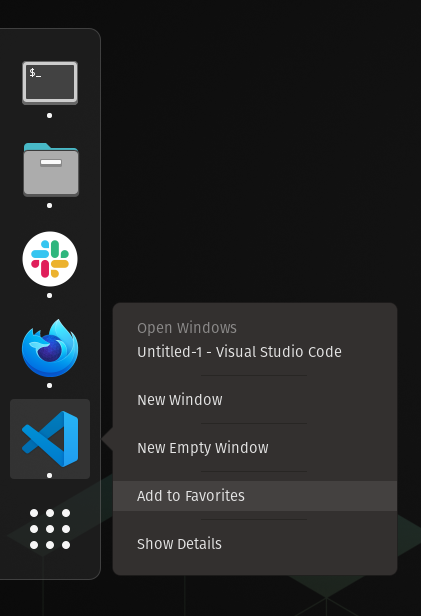
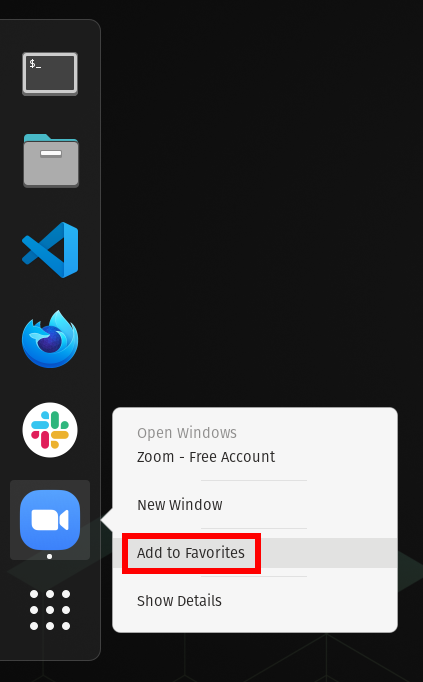
update dock partials & rebuild

diff --git a/ubuntu.md b/ubuntu.md
@@ -586,19 +586,19 @@ After the test are finished, you should have green "All clear" messages at least
 You can also sign in to Slack on your iPhone or Android device!
 
 
-## Pin apps to your taskbar
+## Pin apps to your dock
 
-You are going to use most of the apps you've just installed really often. So let's pin them to your taskbar so that they are just a click away!
+You are going to use most of the apps you've installed today really often. So let's pin them to your dock so that they are just one click away!
 
-To do so, launch the app, right-click on the icon to bring up the context menu and choose "Pin to taskbar".
+To pin an app to your dock, launch the app, right-click on the icon in the dock to bring up the context menu and choose "Add to Favorites".
 
-![How to pin VS Code to the dock in Ubuntu](images/ubuntu_dock.png)
+![How to pin an app to the dock in Ubuntu](images/ubuntu_dock.png)
 
-You should at least pin:
-- The terminal
-- The file explorer
-- The Internet browser
+You must pin:
+- Your terminal
+- Your file explorer
 - VS Code
+- Your Internet browser
 - Slack
 - Zoom
 

diff --git a/windows.md b/windows.md
@@ -1241,17 +1241,17 @@ You can also sign in to Slack on your iPhone or Android device!
 
 ## Pin apps to your taskbar
 
-You are going to use most of the apps you've just installed really often. So let's pin them to your taskbar so that they are just a click away!
+You are going to use most of the apps you've installed today really often. So let's pin them to your taskbar so that they are just one click away!
 
-To do so, launch the app, right-click on the icon to bring up the context menu and choose "Pin to taskbar".
+To pin an app to your taskbar, launch the app, right-click on the icon in the taskbar to bring up the context menu and choose "Pin to taskbar".
 
-![How to pin VS Code to the taskbar in Windows 10](images/windows_taskbar.png)
+![How to pin an app to the taskbar in Windows](images/windows_taskbar.png)
 
-You should at least pin:
-- The terminal
-- The file explorer
-- The Internet browser
+You must pin:
+- Your terminal
+- Your file explorer
 - VS Code
+- Your Internet browser
 - Slack
 - Zoom
 

diff --git a/macos.md b/macos.md
@@ -757,19 +757,19 @@ defaults write com.apple.screencapture location "${HOME}/Desktop"
 ```
 
 
-## Pin apps to your taskbar
+## Pin apps to your dock
 
-You are going to use most of the apps you've just installed really often. So let's pin them to your taskbar so that they are just a click away!
+You are going to use most of the apps you've installed today really often. So let's pin them to your dock so that they are just one click away!
 
-To do so, launch the app, right-click on the icon to bring up the context menu and choose "Pin to taskbar".
+To do so, launch the app, right-click on the icon to bring up the context menu and choose "Options" then "Keep in Dock.
 
-![How to pin VS Code to the taskbar in Windows 10](images/windows_taskbar.png)
+![How to pin an app to the dock in macOS](images/macos_dock.png)
 
-You should at least pin:
-- The terminal
-- The file explorer
-- The Internet browser
+You must pin:
+- Your terminal
+- Your file explorer
 - VS Code
+- Your Internet browser
 - Slack
 - Zoom
 

diff --git a/_partials/ubuntu_dock.md b/_partials/ubuntu_dock.md
@@ -1,15 +1,15 @@
-## Pin apps to your taskbar
+## Pin apps to your dock
 
-You are going to use most of the apps you've just installed really often. So let's pin them to your taskbar so that they are just a click away!
+You are going to use most of the apps you've installed today really often. So let's pin them to your dock so that they are just one click away!
 
-To do so, launch the app, right-click on the icon to bring up the context menu and choose "Pin to taskbar".
+To pin an app to your dock, launch the app, right-click on the icon in the dock to bring up the context menu and choose "Add to Favorites".
 
-![How to pin VS Code to the dock in Ubuntu](images/ubuntu_dock.png)
+![How to pin an app to the dock in Ubuntu](images/ubuntu_dock.png)
 
-You should at least pin:
-- The terminal
-- The file explorer
-- The Internet browser
+You must pin:
+- Your terminal
+- Your file explorer
 - VS Code
+- Your Internet browser
 - Slack
 - Zoom

diff --git a/_partials/windows_taskbar.md b/_partials/windows_taskbar.md
@@ -1,15 +1,15 @@
 ## Pin apps to your taskbar
 
-You are going to use most of the apps you've just installed really often. So let's pin them to your taskbar so that they are just a click away!
+You are going to use most of the apps you've installed today really often. So let's pin them to your taskbar so that they are just one click away!
 
-To do so, launch the app, right-click on the icon to bring up the context menu and choose "Pin to taskbar".
+To pin an app to your taskbar, launch the app, right-click on the icon in the taskbar to bring up the context menu and choose "Pin to taskbar".
 
-![How to pin VS Code to the taskbar in Windows 10](images/windows_taskbar.png)
+![How to pin an app to the taskbar in Windows](images/windows_taskbar.png)
 
-You should at least pin:
-- The terminal
-- The file explorer
-- The Internet browser
+You must pin:
+- Your terminal
+- Your file explorer
 - VS Code
+- Your Internet browser
 - Slack
 - Zoom

diff --git a/_partials/macos_dock.md b/_partials/macos_dock.md
@@ -1,15 +1,15 @@
-## Pin apps to your taskbar
+## Pin apps to your dock
 
-You are going to use most of the apps you've just installed really often. So let's pin them to your taskbar so that they are just a click away!
+You are going to use most of the apps you've installed today really often. So let's pin them to your dock so that they are just one click away!
 
-To do so, launch the app, right-click on the icon to bring up the context menu and choose "Pin to taskbar".
+To do so, launch the app, right-click on the icon to bring up the context menu and choose "Options" then "Keep in Dock.
 
-![How to pin VS Code to the taskbar in Windows 10](images/windows_taskbar.png)
+![How to pin an app to the dock in macOS](images/macos_dock.png)
 
-You should at least pin:
-- The terminal
-- The file explorer
-- The Internet browser
+You must pin:
+- Your terminal
+- Your file explorer
 - VS Code
+- Your Internet browser
 - Slack
 - Zoom
